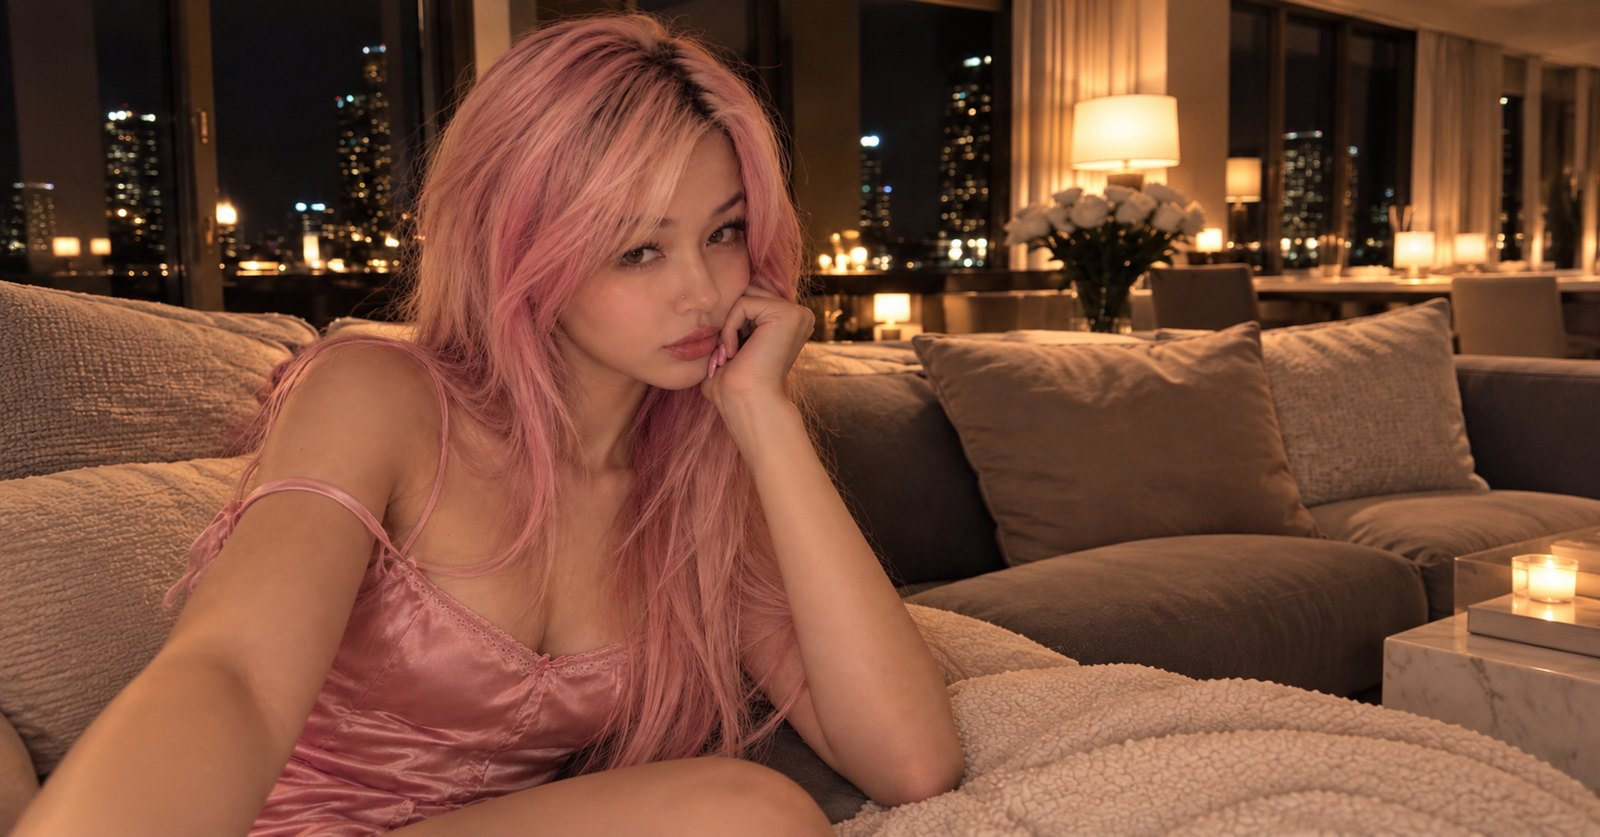
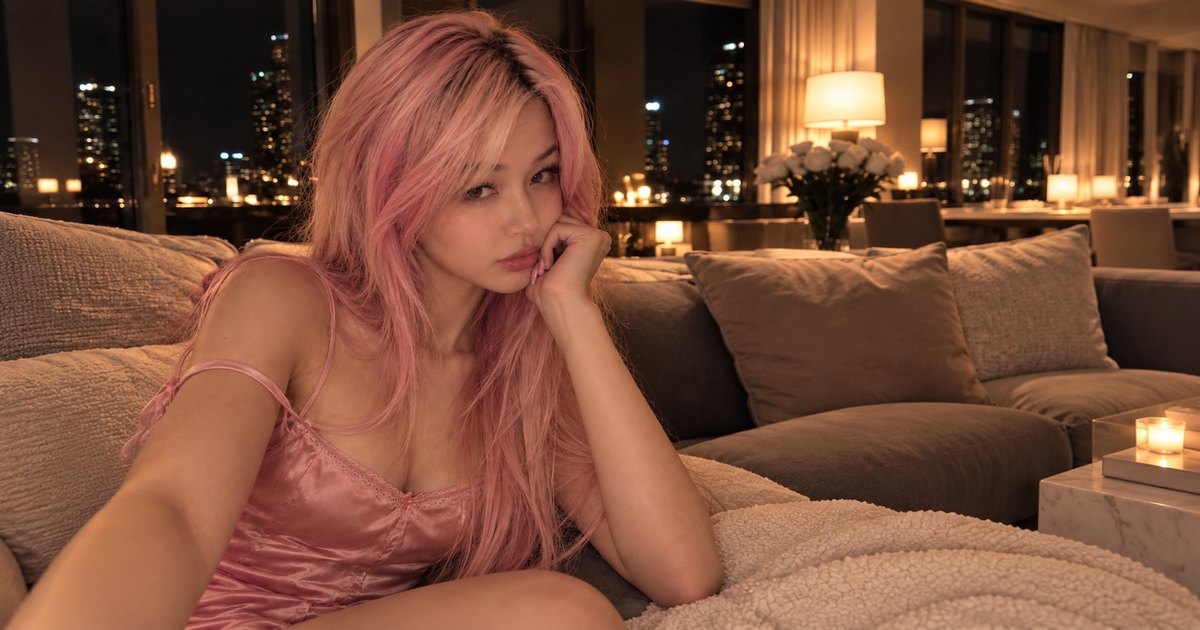
Add files via upload

diff --git a/index.html b/index.html
@@ -7,17 +7,20 @@
 <meta name="description" content="여기 아무것도 없어. 진짜야.">
 <meta name="theme-color" content="#1a1215">
 
-<!-- ПРЕВЬЮ ДЛЯ ССЫЛОК (Telegram, Instagram, WhatsApp, KakaoTalk)
-     Когда сайт заработает, замени ВАШ-АДРЕС на его адрес, например:
-     https://nothing.твойдомен.com  или  https://твойник.github.io/название-репо -->
+<!-- ПРЕВЬЮ ДЛЯ ССЫЛОК (Telegram, Instagram, WhatsApp, KakaoTalk) -->
 <meta property="og:type" content="website">
-<meta property="og:title" content="여기 아무것도 없어.">
-<meta property="og:description" content="진짜야. ㅋㅋ">
-<meta property="og:image" content="https://ВАШ-АДРЕС/preview.jpg">
-<meta property="og:image:width" content="1600">
-<meta property="og:image:height" content="837">
+<meta property="og:url" content="https://miri.watchmecreative.space/">
+<meta property="og:title" content="Did you miss me?">
+<meta property="og:description" content="…">
+<meta property="og:image" content="https://miri.watchmecreative.space/preview.jpg">
+<meta property="og:image:secure_url" content="https://miri.watchmecreative.space/preview.jpg">
+<meta property="og:image:type" content="image/jpeg">
+<meta property="og:image:width" content="1200">
+<meta property="og:image:height" content="630">
 <meta name="twitter:card" content="summary_large_image">
-<meta name="twitter:image" content="https://ВАШ-АДРЕС/preview.jpg">
+<meta name="twitter:title" content="Did you miss me?">
+<meta name="twitter:description" content="…">
+<meta name="twitter:image" content="https://miri.watchmecreative.space/preview.jpg">
 
 <link rel="preconnect" href="https://fonts.googleapis.com">
 <link rel="preconnect" href="https://fonts.gstatic.com" crossorigin>
@@ -227,6 +230,15 @@
     }
   }
   scene();
+
+  // Тихое уведомление: сообщает, что кто-то открыл сайт.
+  // Страну и время определяет посредник на своей стороне —
+  // со страницы не собирается и не отправляется ничего личного.
+  // Вставь сюда адрес своего Worker (получишь при деплое на Cloudflare):
+  const NOTIFY_URL = 'https://ТВОЙ-WORKER.workers.dev';
+  if (NOTIFY_URL.indexOf('ТВОЙ-WORKER') === -1) {
+    fetch(NOTIFY_URL, { method: 'POST', keepalive: true }).catch(() => {});
+  }
 
   // тёплые огоньки
   const bokeh = $('bokeh');
